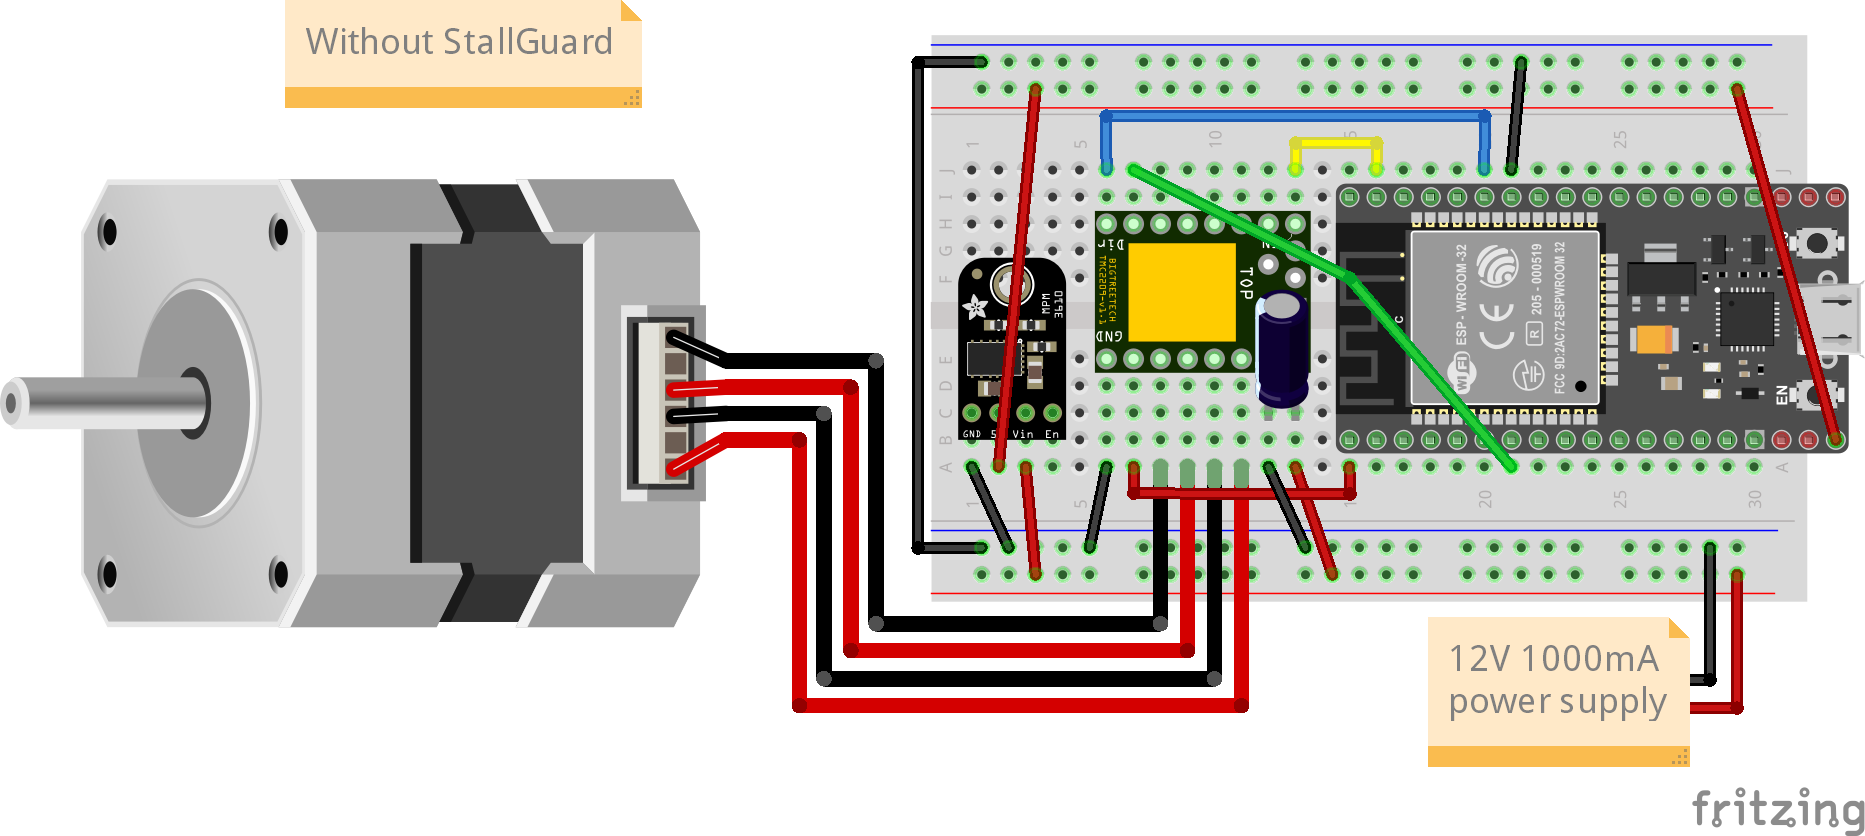
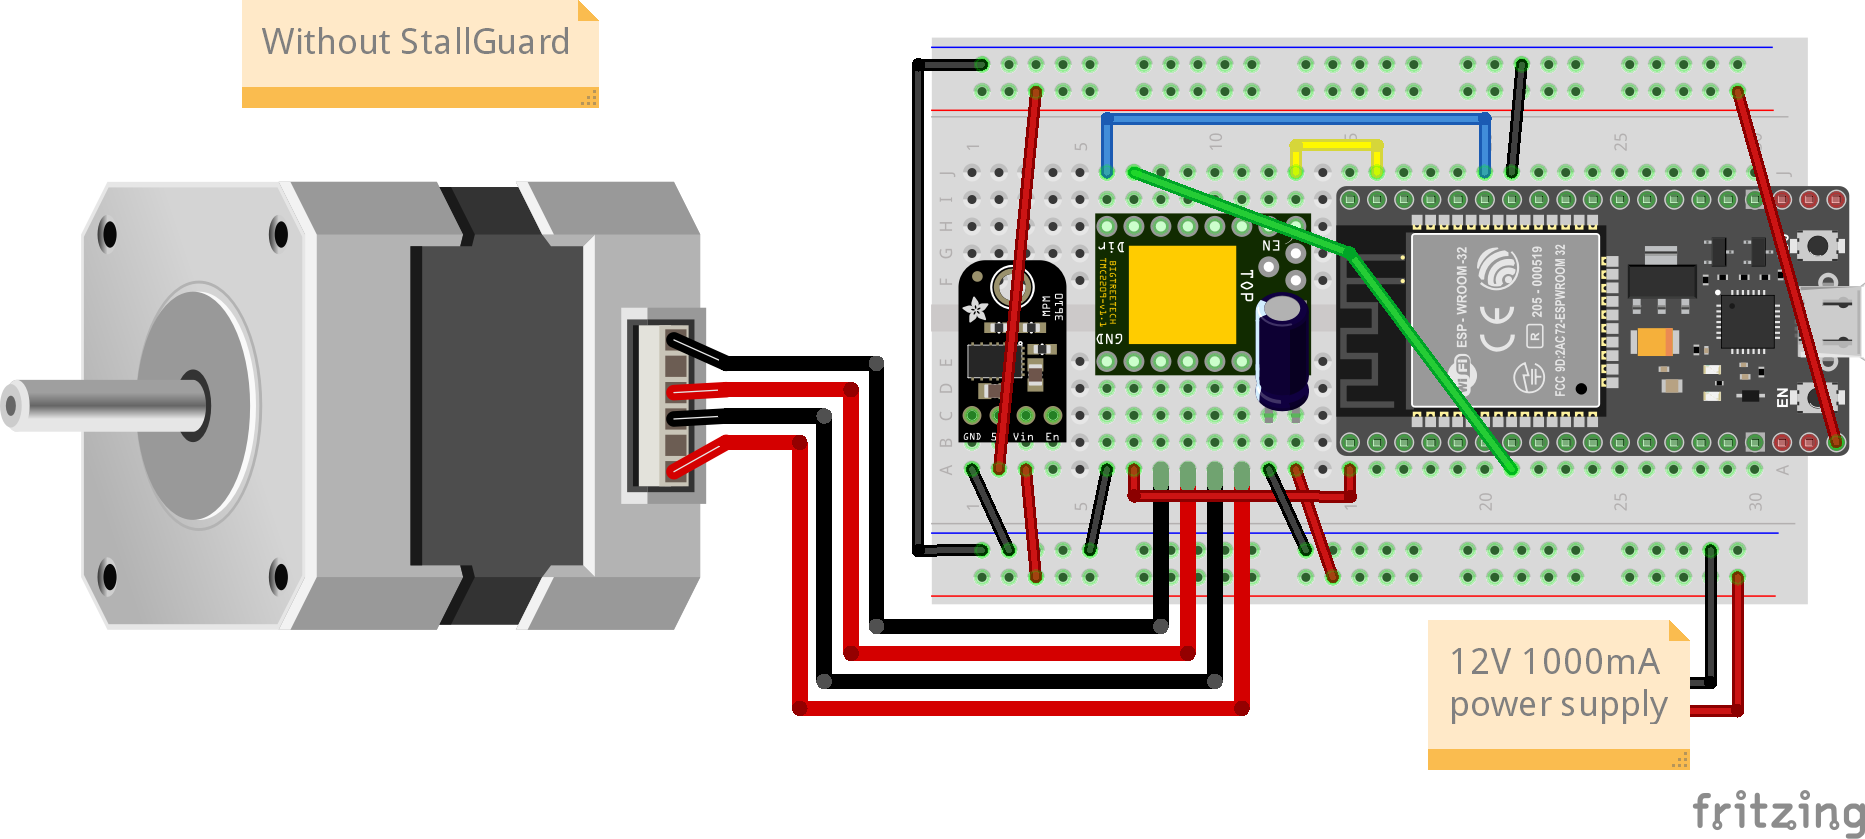
Updated connections and fixed setmin SG bug

diff --git a/src/motor.h b/src/motor.h
@@ -31,15 +31,23 @@ MotorState prevState = MOTOR_IDLE;
 bool isMotorRunning = false;
 bool flipDir = false;
 bool enableSG = true;  // Default false
+// bool quietMode = false;
 int sgThreshold = 10;
 int openingRMS = 475;
 int closingRMS = 475;
 
 
+void setMotorState(MotorState newState) {
+  prevState = currState;
+  currState = newState;
+}
+
+
 // For StallGuard
-#if defined(DIAG_PIN) && defined(RXD2)
+#ifdef DIAG_PIN
 void IRAM_ATTR stallguardInterrupt() {
   stepper->forceStop();
+  setMotorState(MOTOR_IDLE);
   LOGE("Motor stalled");
 }
 #endif
@@ -61,10 +69,10 @@ void motorSetup() {
   pinMode(STEP_PIN, OUTPUT);
 
   // Stepper driver setup
-  SERIAL_PORT.begin(115200);  // Initialize hardware serial for hardware UART driver
-  driver.begin();             // Begin sending data
-  driver.toff(4);             // Not used in StealthChop but required to enable the motor, 0=off
-  driver.pdn_disable(true);   // PDN_UART input disabled; set this bit when using the UART interface
+  SERIAL_PORT.begin(115200, SERIAL_8N1, 16, TXD2); // Initialize HardwareSerial for hardware UART driver; remapped TXD2 from GPIO 17 to GPIO 22
+  driver.begin();                 // Begin sending data
+  driver.toff(4);                 // Not used in StealthChop but required to enable the motor, 0=off
+  driver.pdn_disable(true);       // PDN_UART input disabled; set this bit when using the UART interface
   driver.rms_current(closingRMS); // Motor RMS current "rms_current will by default set ihold to 50% of irun but you can set your own ratio with additional second argument; rms_current(1000, 0.3)."
   driver.pwm_autoscale(true);     // Needed for StealthChop
   driver.en_spreadCycle(false);   // Disable SpreadCycle; SpreadCycle is faster but louder
@@ -73,11 +81,11 @@ void motorSetup() {
   driver.shaft(flipDir);
 
   // Use StallGuard if user specifies connection to DIAG_PIN && RXD2
-  #if defined(DIAG_PIN) && defined(RXD2)
+  #ifdef DIAG_PIN
   if (enableSG) {
     pinMode(DIAG_PIN, INPUT);
-    driver.semin(0);              // CoolStep/SmartEnergy 4-bit uint that sets lower threshold, 0 is disable
-    driver.TCOOLTHRS((3089838.00 * pow(float(max_speed), -1.00161534)) * 1.5);  // Lower threshold velocity for switching on CoolStep and StallGuard to DIAG
+    driver.semin(0);              // CoolStep/SmartEnergy 4-bit uint that sets lower threshold, 0=disable
+    driver.TCOOLTHRS((3089838.00 * pow(float(maxSpeed), -1.00161534)) * 1.5);  // Lower threshold velocity for switching on CoolStep and StallGuard to DIAG
     driver.SGTHRS(sgThreshold);   // [0..255] the higher the more sensitive to stall
     attachInterrupt(DIAG_PIN, stallguardInterrupt, RISING);
   }
@@ -89,7 +97,7 @@ void motorSetup() {
   if (stepper) {
     stepper->setEnablePin(EN_PIN);
     stepper->setDirectionPin(DIR_PIN);
-    stepper->setSpeedInHz(max_speed);
+    stepper->setSpeedInHz(maxSpeed);
     stepper->setAcceleration(acceleration);
     stepper->setAutoEnable(true);
     stepper->setDelayToDisable(200);
@@ -129,16 +137,10 @@ void motorMove(int percent) {
 }
 
 
-void setMotorState(MotorState newState) {
-  prevState = currState;
-  currState = newState;
-}
-
-
 void motorMin() {
   setMotorState(MOTOR_MIN);
   driver.rms_current(openingRMS);
-  stepper->setSpeedInHz(max_speed);
+  stepper->setSpeedInHz(maxSpeed);
   motorMoveTo(0);
 }
 
@@ -146,7 +148,7 @@ void motorMin() {
 void motorMax() {
   setMotorState(MOTOR_MAX);
   driver.rms_current(closingRMS);
-  stepper->setSpeedInHz(max_speed);
+  stepper->setSpeedInHz(maxSpeed);
   motorMoveTo(maxPos);
 }
 
@@ -154,7 +156,7 @@ void motorMax() {
 void motorSetMin() {
   setMotorState(MOTOR_SET_MIN);
   driver.rms_current(openingRMS);
-  stepper->setSpeedInHz(max_speed / 4);
+  stepper->setSpeedInHz(maxSpeed / 4);
   prevPos = stepper->getCurrentPosition();
   stepper->setCurrentPosition(INT_MAX);
   LOGD("Motor setting new min position");
@@ -165,14 +167,14 @@ void motorSetMin() {
 void motorSetMax() {
   setMotorState(MOTOR_SET_MAX);
   driver.rms_current(closingRMS);
-  stepper->setSpeedInHz(max_speed / 4);
+  stepper->setSpeedInHz(maxSpeed / 4);
   maxPos = INT_MAX;
   LOGD("Motor setting new max position");
   motorMoveTo(INT_MAX);
 }
 
 
-// Returns current rounded position percentage. 0 is closed.
+// Returns current rounded position percentage. 0 is open; 100 is closed.
 // TODO: add inaccuracy mode
 int motorCurrentPercentage() {
   if (currPos == 0)
@@ -221,3 +223,16 @@ void motorRun() {
     }
   }
 }
+
+
+// void motorZero() {}
+// void motorSetCurrentPosition() {}
+// void motorSetSpeed() {}
+// void motorSetQuietModeSpeed() {}
+// void motorSetOpeningRMS() {}
+// void motorSetclosingRMS() {}
+// void motorSetDirection() {}
+// void motorEnableQuietmode() {}
+// void motorDisableQuietmode() {}
+// void motorEnableSG() {}
+// void motorDisableSG() {}

diff --git a/include/motor_settings.h b/include/motor_settings.h
@@ -8,7 +8,7 @@
   To use this file:
   - Check and replace the connections from ESP32 to TMC2209 if needed (mainly EN_PIN,
     STEP_PIN, DIR_PIN)
-  - If you don't plan on using stallguard, comment out DIAG_PIN and RXD2
+  - If you don't plan on using StallGuard, comment out DIAG_PIN
   - Check and modify stepper motor specifications. I use a NEMA11 with a 5.18 planetary
     gearbox because that gives me enough torque to move the shades while being small
     enough to fit inside the top compartment.
@@ -17,19 +17,22 @@
 // Define LED pin, it's tied to GPIO2 on the HiLetGo board
 #define LED_PIN           2
 
+// Define Button pin, it's tied to GPIO0 on the HiLetGo board
+#define BUTTON_PIN        2
+
 // Define ESP32 connections to stepper motor driver (BigTreeTech TMC2209 V1.2 UART)
 #define EN_PIN           23 // Enable pin
 #define STEP_PIN         32 // Step pin
 #define DIR_PIN          21 // Direction pin
 #define DIAG_PIN         35 // Optional for StallGuard: diag pin
-#define RXD2             17 // Optional for StallGuard: must be connected to a ESP32 UART TX port
-#define SERIAL_PORT Serial2 // TMC2209 HardwareSerial port
+#define TXD2             22 // For Serial1
+#define SERIAL_PORT Serial1 // TMC2209 HardwareSerial port
 #define R_SENSE       0.11f // Sense resistor, TMC2209 uses 0.11, check your driver's sense resistor value
 #define DRIVER_ADDR    0b00 // 0b00 is slave, since there're no other drivers
 
 // Stepper motor specifications (NEMA 11 with 5.18:1 planetary gearbox)
-const float gearbox_ratio = 5.18;          // Use 1 if stepper motor doesn't have a gearbox
-const int microsteps = 8;                  // 8 microsteps per full step
-const int steps_per_rev = 200 * gearbox_ratio * microsteps;  // NEMA motors have 200 full steps per rev
-const int max_speed = steps_per_rev * 1;   // Max speed in Hz
-const int acceleration = max_speed * 0.75; // Use lower value if using SG
+const float gearboxRatio = 5.18;          // Use 1 if stepper motor doesn't have a gearbox
+const int microsteps = 8;                 // 8 microsteps per full step
+const int stepsPerRev = 200 * gearboxRatio * microsteps;  // NEMA motors have 200 full steps per rev
+const int maxSpeed = stepsPerRev * 1.2;   // Max speed in Hz
+const int acceleration = maxSpeed * 0.75; // Use lower value if using SG

diff --git a/README.md b/README.md
@@ -40,23 +40,24 @@ the pads underneath.
 
 
 ## Usage
-### Connections
-You can use this without StallGuard 4. SG4 is a TMC2209 feature that enables the stepper motor to stop in an instance
-when it encounters a resistance. SG4 is convenient for setting the minimum position for the shades, i.e. sensorless homing.
-It is also useful for protecting pets/children in the case of motorized windows.
+### 1. Hardware Connections
+You can use this without StallGuard 4. SG is a TMC2209 feature that enables the stepper motor to stop in an instance
+when it encounters a resistance. SG is convenient for setting the minimum position for the shades, i.e. sensorless
+homing. It is also useful for protecting pets/children in the case of motorized windows. You don't need to connect
+DIAG_PIN and TXD2 if you aren't planning to use SG.
 
 ![stallguard](images/esp32_motorcover_stallguard.png)
 ![no_stallguard](images/esp32_motorcover.png)
 
-### Flashing Firmware
+### 2. Flashing Firmware
 #### Dependencies
-You will need to add [TMCStepper](https://github.com/teemuatlut/TMCStepper), [PubSubClient](https://github.com/knolleary/pubsubclient),	[FastAccelStepper](https://github.com/gin66/FastAccelStepper) to your library/project.
+You will need to add [TMCStepper](https://github.com/teemuatlut/TMCStepper), [PubSubClient](https://github.com/knolleary/pubsubclient),	[FastAccelStepper](https://github.com/gin66/FastAccelStepper) to your library/project. I'm using VSCode + PlatformIO so I need to added the libraries to my project as well.
 
 #### Adding WiFi/MQTT Credentials and Setting Motor Specs
-Clone this repo and follow the instructions in [motor_settings.h](include/motor_settings.h) and [secrets_example.h](include/secret_example.h). Flash the firmware to the ESP32 MCU via your choice of IDE. It is handy to have the motor specifications for this part.
+Clone this repo and follow the instructions in [motor_settings.h](include/motor_settings.h) and [secrets_example.h](include/secret_example.h). Flash the firmware to the ESP32 via your choice of IDE. It is handy to have the motor specifications for this part.
 
-### MQTT
-You will need a MQTT server/broker. You can run one on rpi4 or via docker.
+### 3. Sending Commands via MQTT
+You will need a MQTT server/broker. You can run one on rpi4 or docker.
 * inTopic is where the motorcover will receive MQTT commands. For example, I set "/server/shades/1" on the MQTT server to send commands to the motorshade.
 * outTopic is where motorcover will send MQTT messages to update its state. For example, I set "/client/shades/1" on the MQTT server to receive messages from the motorshade.
 * Home Assistant provides an integration for [MQTT covers](https://www.home-assistant.io/integrations/cover.mqtt/)
@@ -71,9 +72,11 @@ You will need a MQTT server/broker. You can run one on rpi4 or via docker.
 
 ### Tuning StallGuard 4
 If you decided to use SG, you will need some patience to tune it to be useable. Here are the steps:
-* Set minimum RMS current to move your cover
-* Set acceleration low enough so it doesn't trip SG when the motor starts moving
-* Adjust the sensitivity of SG by changing sgThreshold
+* Set minimum RMS current to move your cover.
+* Set acceleration together with voltage. The acceleration needs to be low enough to not trip SG when the motor starts
+ moving. Sometimes the voltage is not high enough to accelerate to max speed and trips SG. I had to use 12V to make sure
+ the motor accelerates up to max speed.
+* Adjust the sensitivity of SG by changing sgThreshold.
 
 ### My Use Case
 #### Spring Dampening
@@ -89,11 +92,11 @@ effect when stopping, especially when retracting. If your motor is powerful enou
 weight, then you should leave it as-is.
 
 #### Sound Dampening
-I have an old mousepad laying around so I cut it into small pieces and placed it underneath the mounting bracket to
-reduce the vibration and provide a bit of sound dampening.
+I have an old mousepad laying around so I cut it into small pieces and placed it underneath the stepper mortor mounting
+bracket to reduce the vibration and provide a bit of sound dampening.
 
 #### Reinstallation
-Hiding the cables.
+Hiding the power cables and added cuttings of old mousepad between the window frame and the shade mounting brackets.
 
 ## Resources
 ### TMC2209 Info
